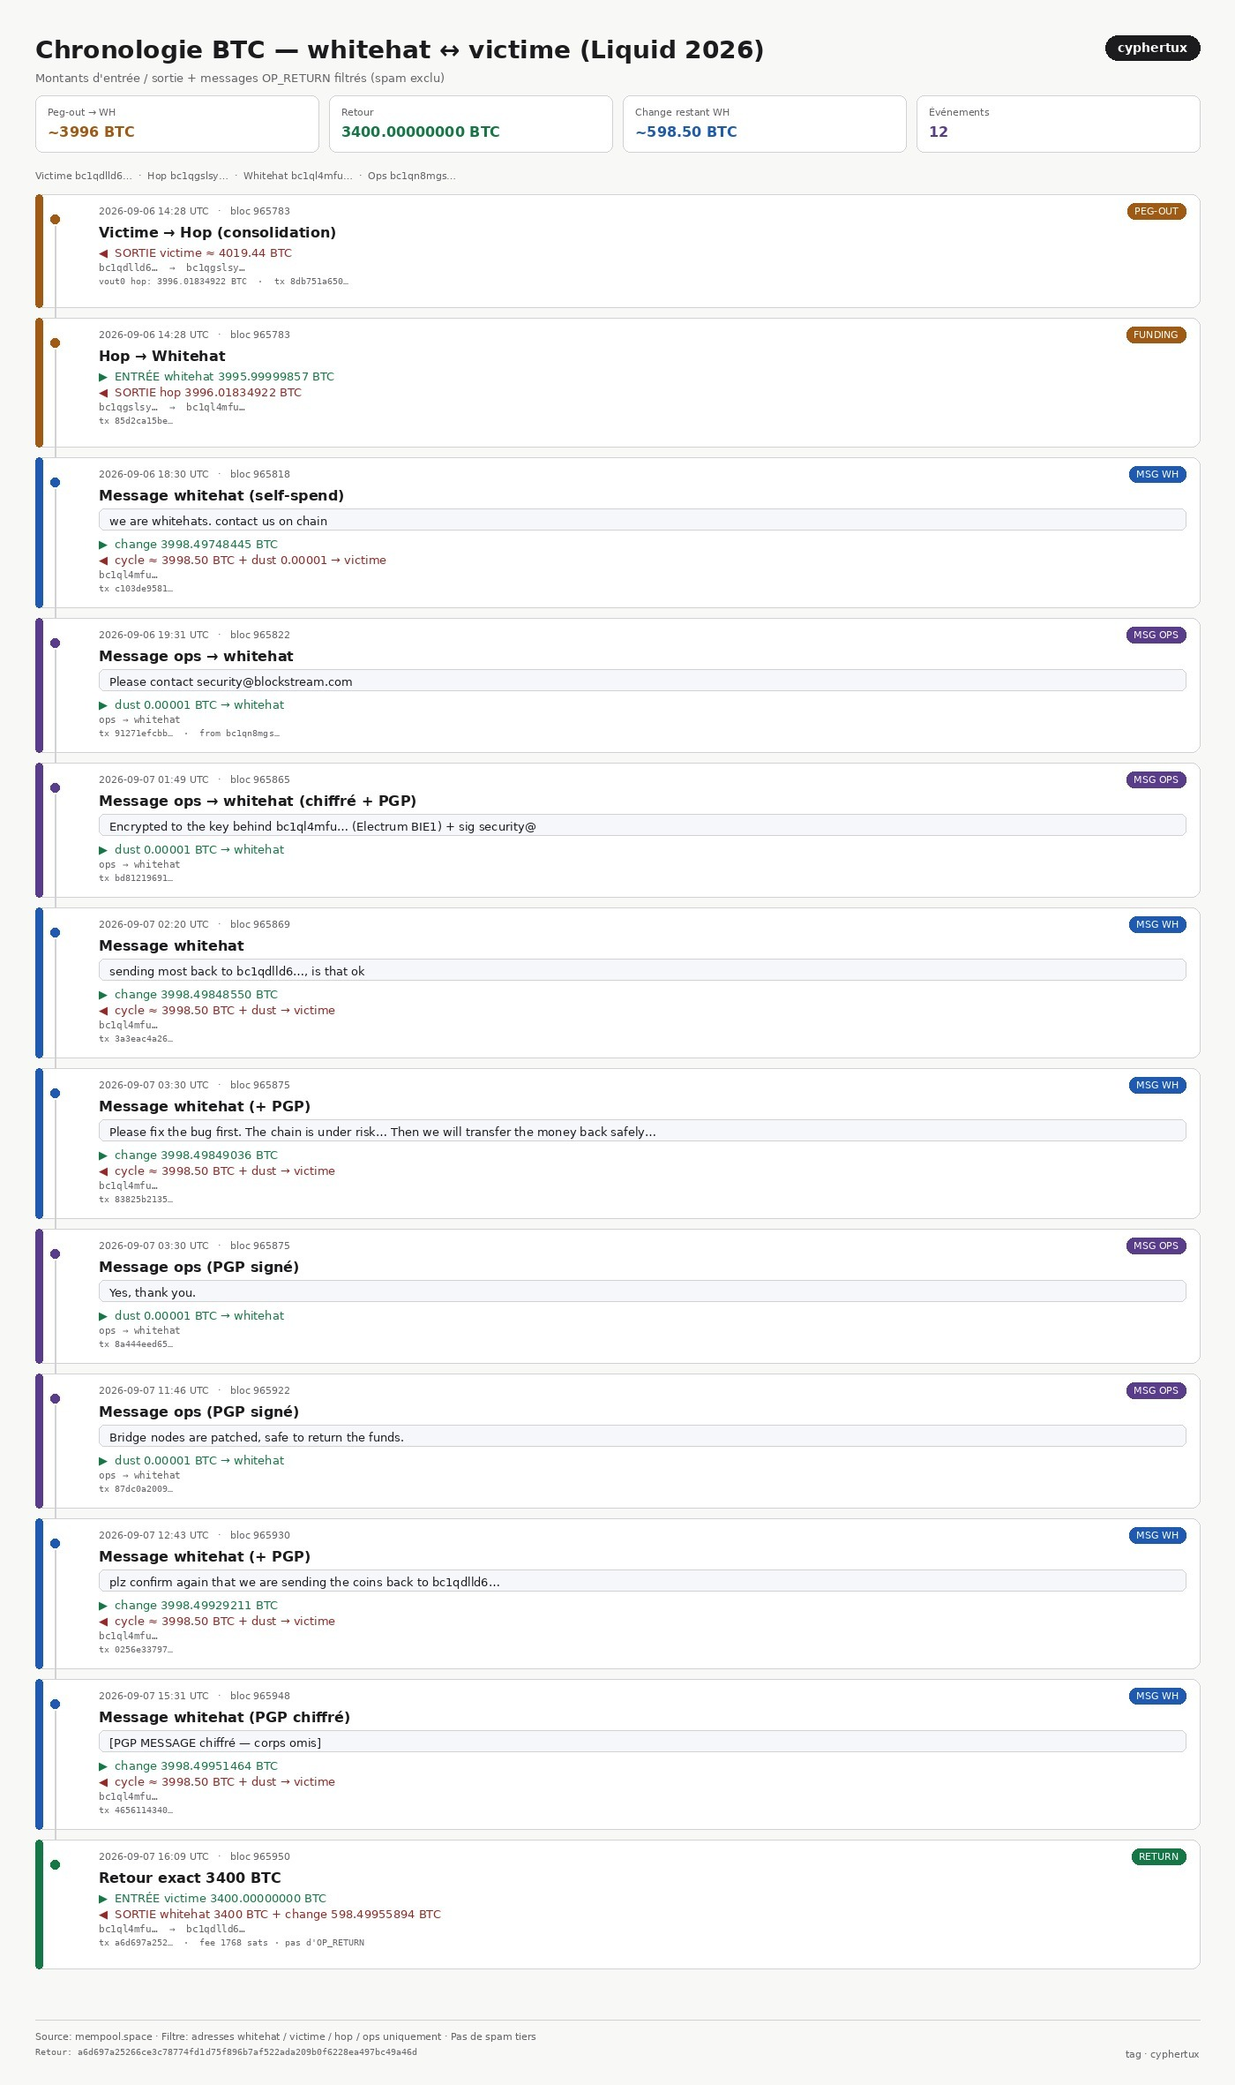
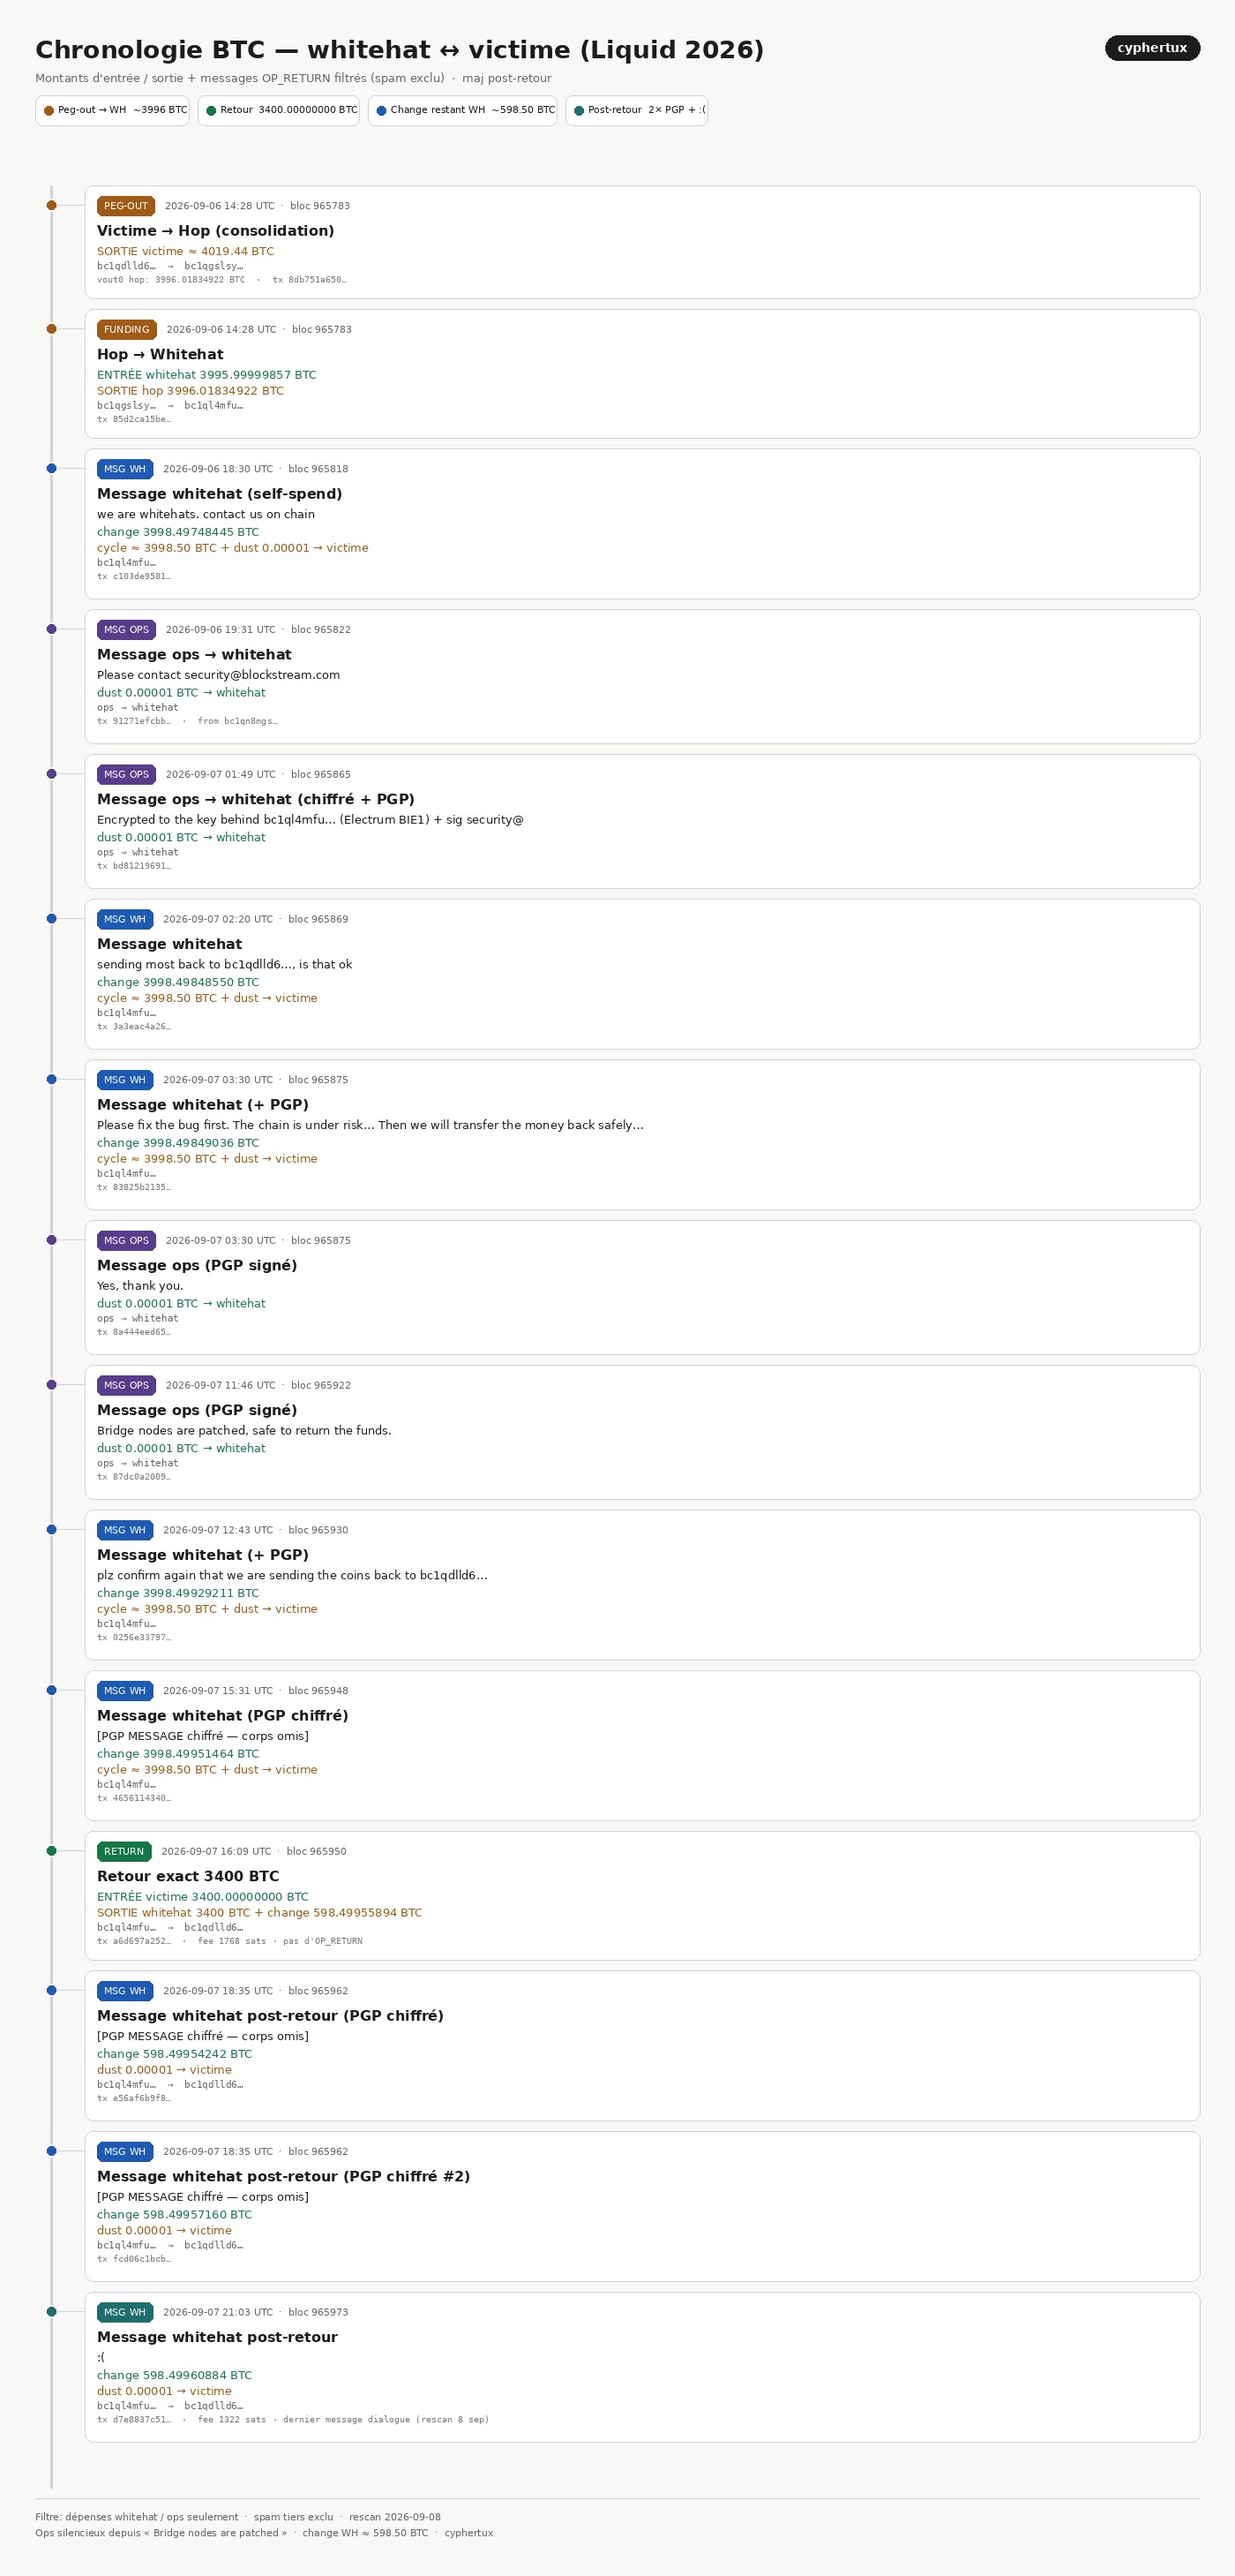
docs: extend BTC chronology with post-return whitehat messages Add two PGP messages and :( after the 3400 BTC return; refresh chronology.jpg and rescan snapshot.

diff --git a/final/data/btc_3400_opreturn/CHRONOLOGY.md b/final/data/btc_3400_opreturn/CHRONOLOGY.md
@@ -43,6 +43,9 @@ flowchart LR
 | 10 | 2026-09-07 12:43:33 UTC | 965930 | Message whitehat | plz confirm again that we are sending the coins back to bc1qdlld6antmv4xug242ed8… | [`0256e33797…`](https://mempool.space/tx/0256e33797ab173a5df1f2cd9689a81241f385dabb7e998e06ce78855ff19016) |
 | 11 | 2026-09-07 15:31:46 UTC | 965948 | Message whitehat | Message PGP (chiffré) | [`4656114340…`](https://mempool.space/tx/4656114340749ba4aade1affcb2625a1dac37214b32b7d7c242af2ca9fe6d690) |
 | 12 | 2026-09-07 16:09:25 UTC | 965950 | Retour fonds | Retour exact 3400 BTC | [`a6d697a252…`](https://mempool.space/tx/a6d697a25266ce3c78774fd1d75f896b7af522ada209b0f6228ea497bc49a46d) |
+| 13 | 2026-09-07 18:35:17 UTC | 965962 | Message whitehat | Message PGP (chiffré) post-retour | [`e56af6b9f8…`](https://mempool.space/tx/e56af6b9f889b0e7ed342508eaab2f997fafbb61d64c892bbf306a0014722596) |
+| 14 | 2026-09-07 18:35:17 UTC | 965962 | Message whitehat | Message PGP (chiffré) post-retour #2 | [`fcd06c1bcb…`](https://mempool.space/tx/fcd06c1bcb38e4c3eaf71c1137d7bdf935363ae3c14b590d5d1a501e326d2b99) |
+| 15 | 2026-09-07 21:03:23 UTC | 965973 | Message whitehat | :( | [`d7e8837c51…`](https://mempool.space/tx/d7e8837c51cc625c2c6365d371d376b035209fa01434d4933971d6428d6d6d52) |
 
 ## Détail
 
@@ -241,3 +244,33 @@ More details about the vuln fix:
 - **Inclus:** from whitehat · peg-out from wallet victime · OP_RETURN from adresse ops
 - **Exclus:** spam tiers / fausse demande 3900+bounty
 
+### 13. 2026-09-07 18:35:17 UTC · bloc 965962 — Message PGP (chiffré) post-retour
+- **Type:** Message whitehat
+- **From:** `bc1ql4mfu6aundtkksxklfajs2h3t9nzcd6gyqjlte`
[1 lines of base64/hex data omitted]
+- **Message:** PGP MESSAGE chiffré (corps omis — illisible sans clé)
+- Sorties:
+  - vout0: OP_RETURN
+  - vout1: **0.00001000 BTC** → victime `bc1qdlld6…`
+  - vout2: **598.49954242 BTC** → whitehat (change)
+
+### 14. 2026-09-07 18:35:17 UTC · bloc 965962 — Message PGP (chiffré) post-retour #2
+- **Type:** Message whitehat
+- **From:** `bc1ql4mfu6aundtkksxklfajs2h3t9nzcd6gyqjlte`
[1 lines of base64/hex data omitted]
+- **Message:** PGP MESSAGE chiffré (corps omis)
+- Sorties:
+  - vout0: OP_RETURN
+  - vout1: **0.00001000 BTC** → victime
+  - vout2: **598.49957160 BTC** → whitehat (change)
+
+### 15. 2026-09-07 21:03:23 UTC · bloc 965973 — `:(`
+- **Type:** Message whitehat
+- **From:** `bc1ql4mfu6aundtkksxklfajs2h3t9nzcd6gyqjlte`
[1 lines of base64/hex data omitted]
+- **Message:** `:(`
+- Sorties:
+  - vout0: OP_RETURN `:(`
+  - vout1: **0.00001000 BTC** → victime
+  - vout2: **598.49960884 BTC** → whitehat (change)
+- **Note:** Dernier message de dialogue au rescan 2026-09-08 ; ops toujours silencieux depuis « Bridge nodes are patched ».
